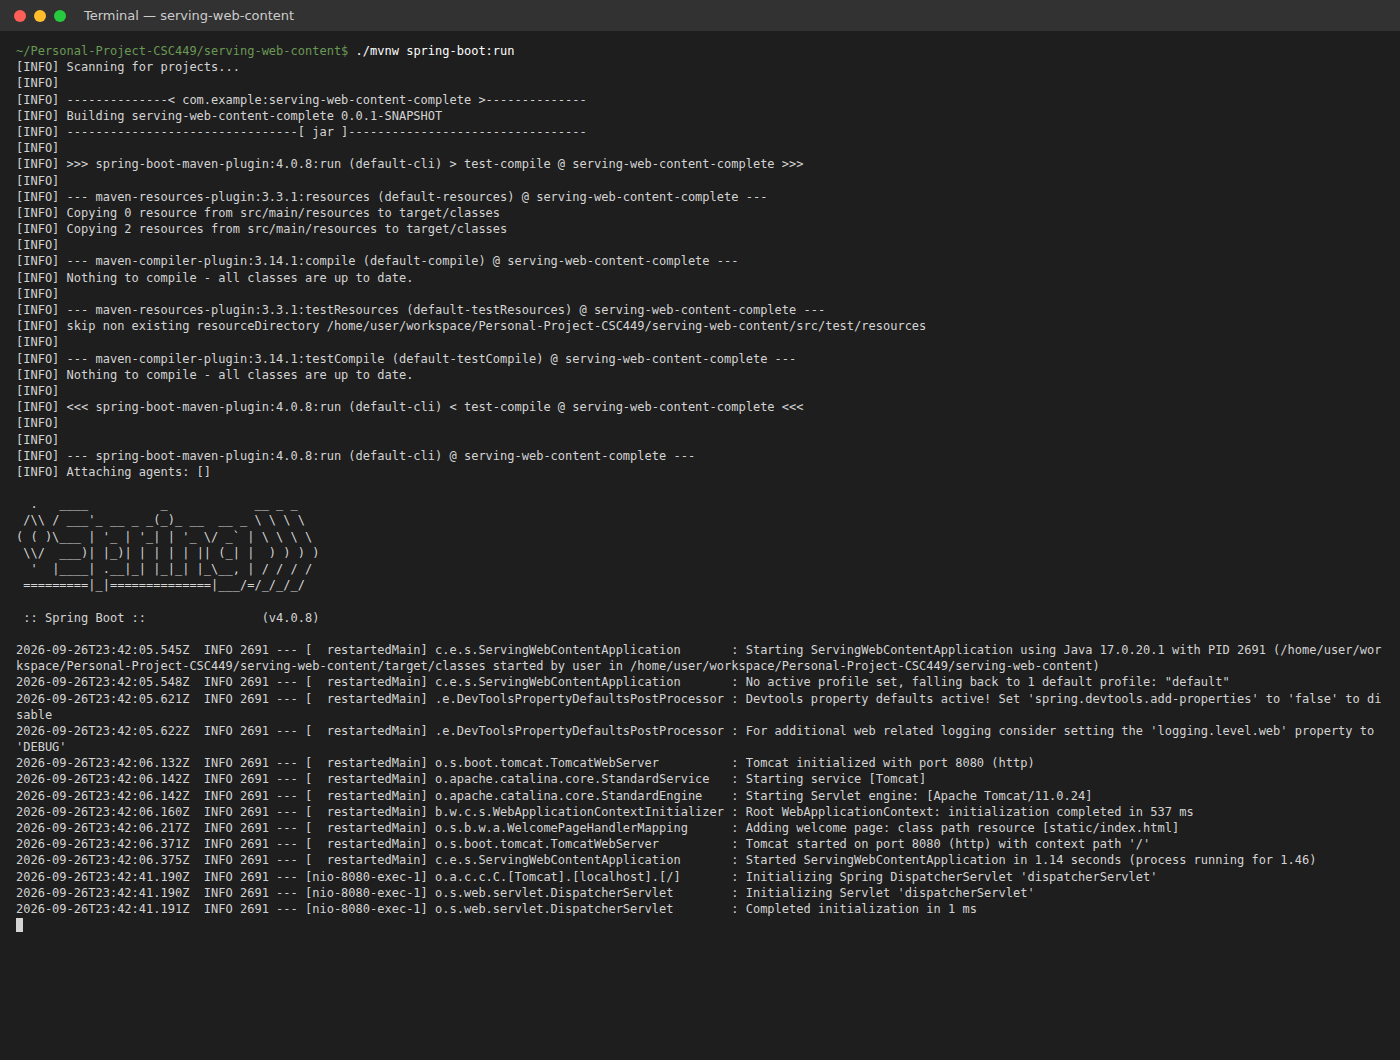
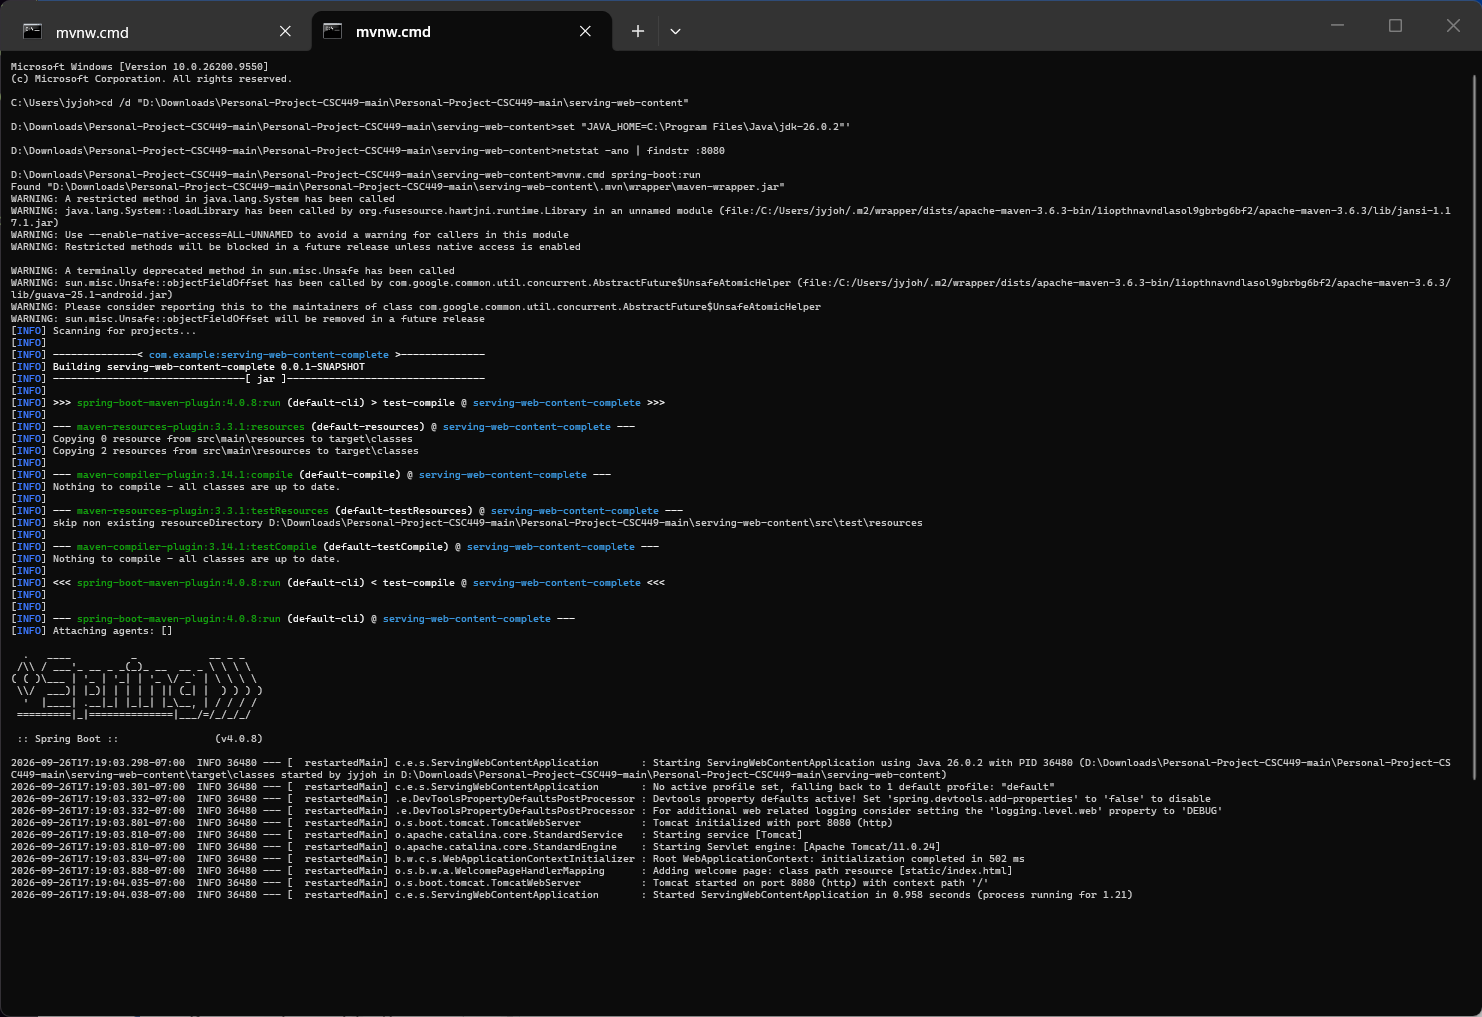
Replace screenshots with captures from local Windows run

diff --git a/README.md b/README.md
@@ -30,13 +30,15 @@ java -jar target/serving-web-content-complete-0.0.1-SNAPSHOT.jar
 
 ### Screenshots
 
-Command-line output from `./mvnw spring-boot:run`:
+These screenshots were captured on my Windows computer using Java 26.0.2.
+
+Command-line output from `mvnw.cmd spring-boot:run`:
 
 ![Command-line output from running the Spring Boot application](docs/screenshots/step-b-command-line.png)
 
-Browser result at `http://localhost:8080/greeting?name=John`:
+Browser result at `http://localhost:8080/greeting?name=john`:
 
-![Browser showing Hello, John!](docs/screenshots/greeting-john.png)
+![Browser showing Hello, john!](docs/screenshots/greeting-john.png)
 
 ### Evaluating the MVC implementation
 
@@ -48,7 +50,7 @@ This application uses the Model-View-Controller (MVC) pattern:
 | View | `src/main/resources/templates/greeting.html` | Thymeleaf template that renders `Hello, ${name}!` as HTML on the server. |
 | Controller | `GreetingController.java` | `@Controller` class. `@GetMapping("/greeting")` handles the request, reads the optional `name` query parameter with a default of `World`, adds it to the model, and returns the view name `greeting`. |
 
-Request flow: the browser sends `GET /greeting?name=John`. Spring's `DispatcherServlet` routes the request to `GreetingController.greeting()`. The controller stores `name` in the model and returns `"greeting"`. Thymeleaf resolves `templates/greeting.html`, fills in the model value, and returns the finished HTML. The console log shows `DispatcherServlet` initializing when the first request arrives.
+Request flow: the browser sends `GET /greeting?name=John`. Spring's `DispatcherServlet` routes the request to `GreetingController.greeting()`. The controller stores `name` in the model and returns `"greeting"`. Thymeleaf resolves `templates/greeting.html`, fills in the model value, and returns the finished HTML. `DispatcherServlet` is initialized when the first request arrives.
 
 Strengths:
 
